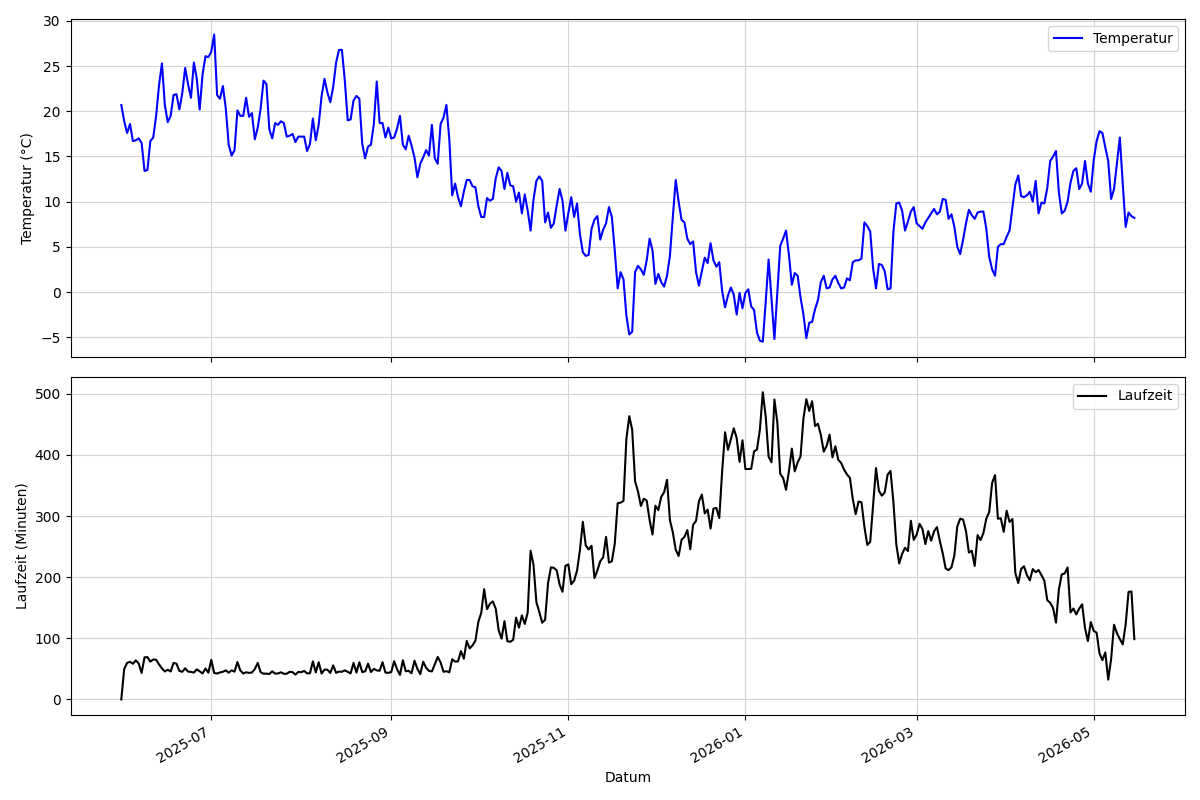
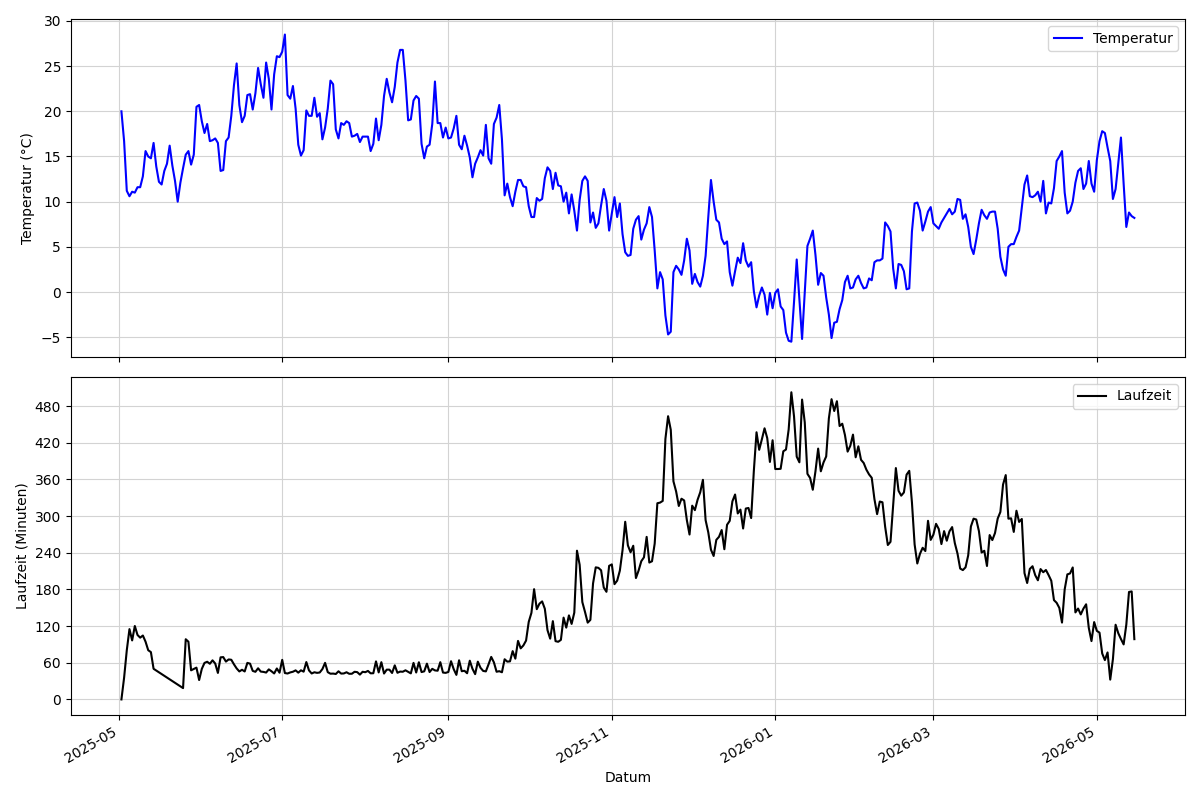
improved stucture of evaluation scripts

diff --git a/evaluate/print.py b/evaluate/print.py
@@ -1,9 +1,15 @@
 import re
 from datetime import datetime
 from pathlib import Path
-
+from typing import Optional, Callable
+import argparse
+from functools import partial
+import logging
+import yaml
 import matplotlib.pyplot as plt
+from matplotlib.ticker import MultipleLocator
 from dataclasses import dataclass
+from utils import get_git_dir, setup_logging
 
 @dataclass
 class Brennerdaten:
@@ -16,33 +22,106 @@ class Brennerdaten:
 # Datei mit den Daten
 DATEI = "summary.txt"
 
-def get_min(min_date, current_date):
-    
-    if min_date is None:
-        return current_date
-    elif current_date < min_date:
-        return current_date
-    else:
-        return min_date
-    
-def get_max(max_date, current_date):
-    
-    if max_date is None:
-        return current_date
-    elif current_date > max_date:
-        return current_date
-    else:
-        return max_date
+@dataclass
+class Configuration:
+    weather_input: Path
+    data_input: Path
+    output: Path
 
-def parse_summary(DATEI):
+def get_yaml_config(config_path: str="config.yaml"):
+        
+    # Reading YAML data from file
+    with open(config_path, 'r') as f:
+        yaml_data = yaml.safe_load(f)
+        
+    return yaml_data
+
+def get_sanitized_config(yaml_data) -> Configuration:
+    paths = {}
+    
+    # Input paths to check
+    for key in ["weather_input", "data_input"]:
+        input_file_path = (Path(yaml_data[key]["dir"]) / Path(yaml_data[key]["file"])).resolve()
+        
+        if not input_file_path.is_file():
+            raise FileNotFoundError(f"File \"{input_file_path}\" does not exist")
+        
+        paths[key] = input_file_path
+        
+    # Output path to check
+    output_dir_path = Path(yaml_data["output"]["dir"]).resolve()
+    
+    if not output_dir_path.is_dir():
+        raise Exception(f"Ouput directory \"{output_dir_path}\" does not exist")
+
+    paths["output"] = output_dir_path / yaml_data["output"]["file"]
+    return Configuration(**paths)
+
+def setup_parser():
+    parser = argparse.ArgumentParser(
+        description="Take a logfile from a given path (heating times) and print it"
+    )
+    git_dir = get_git_dir()
+
+    parser.add_argument("-c", "--config_file_path", 
+                        required=False,
+                        default=f"{str(git_dir)}/config.yaml",
+                        type=str,
+                        help="Input path for the config file")
+    
+    return parser
+
+def get_config_file_path():
+    argparser = setup_parser().parse_args() 
+    yaml_config_path = Path(argparser.config_file_path)
+    
+    if not yaml_config_path.is_file():
+        raise FileNotFoundError(f"Configuration file \"{yaml_config_path}\" does not exist.")
+    return yaml_config_path
+
+
+Number = float | int
+
+def is_valid_instance(d: Optional[Number]):
+    """ Check if data is either of type 'float' or 'int' """
+    return isinstance(d, datetime)
+
+def get_best(compare_func : Callable[[Number, Number], Number],
+             best_date: Optional[Number], 
+             current_date: Optional[Number]):
+
+    # Check if current_date is 'None'
+    if current_date is None:
+        raise TypeError("Passed parameter is of type None")
+    
+    if not is_valid_instance(current_date):
+        raise TypeError("Passed parameter is of wrong type. Expect type datetime.")
+    
+    # Return the current_date if best_date is not yet initialized
+    if best_date is None:
+        return current_date
+    
+    if not is_valid_instance(best_date):
+        raise TypeError("Passed parameter is of wrong type. Expect datetime.")    
+    
+    # Finally, call the compare function
+    if not callable(compare_func):
+        raise TypeError("Function not callable")
+    
+    return compare_func(best_date, current_date)
+
+get_max = partial(get_best, max)
+get_min = partial(get_best, min)
+
+def parse_summary(input_file: Path):
     
     daten = []
     minutenwerte = []
     min_date = None
     max_date = None
-
+    
     # Datei einlesen
-    with open(DATEI, "r", encoding="utf-8") as f:
+    with input_file.open("r", encoding="utf-8") as f:
         for zeile in f:
         # Beispiel:
         # 31.05.2025: 0002 -> 00:00:02
@@ -99,7 +178,7 @@ def parse_wetterdaten(file_path: str, min_date, max_date):
 def plot_wetter_und_brenner(
     wetter: Wetterdaten,
     brenner: Brennerdaten,
-    outfile: str = "summary.png"
+    outfile: str|Path
 ):
     from datetime import datetime
     import matplotlib.pyplot as plt
@@ -151,6 +230,7 @@ def plot_wetter_und_brenner(
     ax2.set_ylabel("Laufzeit (Minuten)", color="black")
     ax2.set_xlabel("Datum", color="black")
     ax2.tick_params(axis="both", colors="black")
+    ax2.yaxis.set_major_locator(MultipleLocator(60))
     ax2.grid(True, color="lightgray")
     ax2.legend(loc="upper right")
 
@@ -163,14 +243,29 @@ def plot_wetter_und_brenner(
     fig.autofmt_xdate()
 
     plt.tight_layout()
-    # plt.show()
-    plt.savefig(Path(__file__).parent / outfile)
-  
-if __name__ == "__main__":
-    brenner: Brennerdaten = parse_summary(Path(__file__).parent / "summary.txt")
+    plt.savefig(outfile)
 
-    wetter: Wetterdaten = parse_wetterdaten(Path(__file__).parent / "wetterdaten.csv",
-                    brenner.min_date, 
+def main():
+    setup_logging()
+    
+    # Get the configuartion file from the argparser
+    config_file_path = get_config_file_path()
+    
+    # Read configuratino file and convert it into dataclass representation
+    config = get_yaml_config(config_file_path)
+    configuration = get_sanitized_config(config)
+    
+    # Evaluate brenner data set
+    brenner: Brennerdaten = parse_summary(configuration.data_input)
+
+    # Evaluate weather data set
+    wetter: Wetterdaten = parse_wetterdaten(configuration.weather_input,
+                    brenner.min_date,
                     brenner.max_date)
     
-    plot_wetter_und_brenner(wetter, brenner)
+    plot_wetter_und_brenner(wetter, 
+                            brenner, 
+                            configuration.output)
+
+if __name__ == "__main__":
+    main()

diff --git a/evaluate/parse.py b/evaluate/parse.py
@@ -3,26 +3,13 @@ import logging
 import argparse
 from datetime import datetime
 from typing import Tuple, Dict
-
-def get_git_dir():
-    
-    current_dir = Path().cwd()
-    
-    while current_dir != current_dir.parent:
-        
-        if (current_dir / ".git").is_dir():
-            return str(current_dir)
-        else:
-            current_dir = current_dir.parent
-        
-    return None
+from utils import get_git_dir, get_file_path, setup_logging
 
 def setup_parser():
     parser = argparse.ArgumentParser(
         description="Take a logfile from a given path (heating times) and analze it"
     )
     git_dir = get_git_dir()
-    
 
     parser.add_argument("-ip", "--input_path", 
                         required=True,
@@ -50,14 +37,6 @@ def setup_parser():
     
     logging.info(f"Setup argparser done")
     return parser
-
-def setup_logging():
-    logging.basicConfig(
-        filename="./log_analyzer.log",
-        filemode="a",
-        format='%(asctime)s %(levelname)-8s %(message)s',
-        level=logging.INFO,
-        datefmt='%Y-%m-%d %H:%M:%S')
     
 def parse_line(line: str) -> Tuple[bool, Tuple[str, str, int]]:
     if "INFO" not in line:
@@ -93,15 +72,6 @@ def create_dictionary_entry():
         "times": [],
         "overall_time": 0
     }
-    
-def get_file_path(user_path: str, user_file: str) -> Path:
-    
-    file_path = Path(user_path) / Path(user_file)
-    
-    if file_path.is_file():
-        return file_path
-    else:
-        return None
 
 def main():
     setup_logging()

diff --git a/evaluate/utils.py b/evaluate/utils.py
@@ -1,0 +1,32 @@
+from pathlib import Path
+import logging
+
+def setup_logging():
+    logging.basicConfig(
+        filename="./log_analyzer.log",
+        filemode="a",
+        format='%(asctime)s %(levelname)-8s %(message)s',
+        level=logging.INFO,
+        datefmt='%Y-%m-%d %H:%M:%S')
+
+def get_git_dir():
+    
+    current_dir = Path().cwd()
+    
+    while current_dir != current_dir.parent:
+        
+        if (current_dir / ".git").is_dir():
+            return str(current_dir)
+        else:
+            current_dir = current_dir.parent
+        
+    return None
+
+def get_file_path(user_path: str, user_file: str) -> Path:
+    
+    file_path = Path(user_path) / Path(user_file)
+    
+    if file_path.is_file():
+        return file_path
+    else:
+        return None